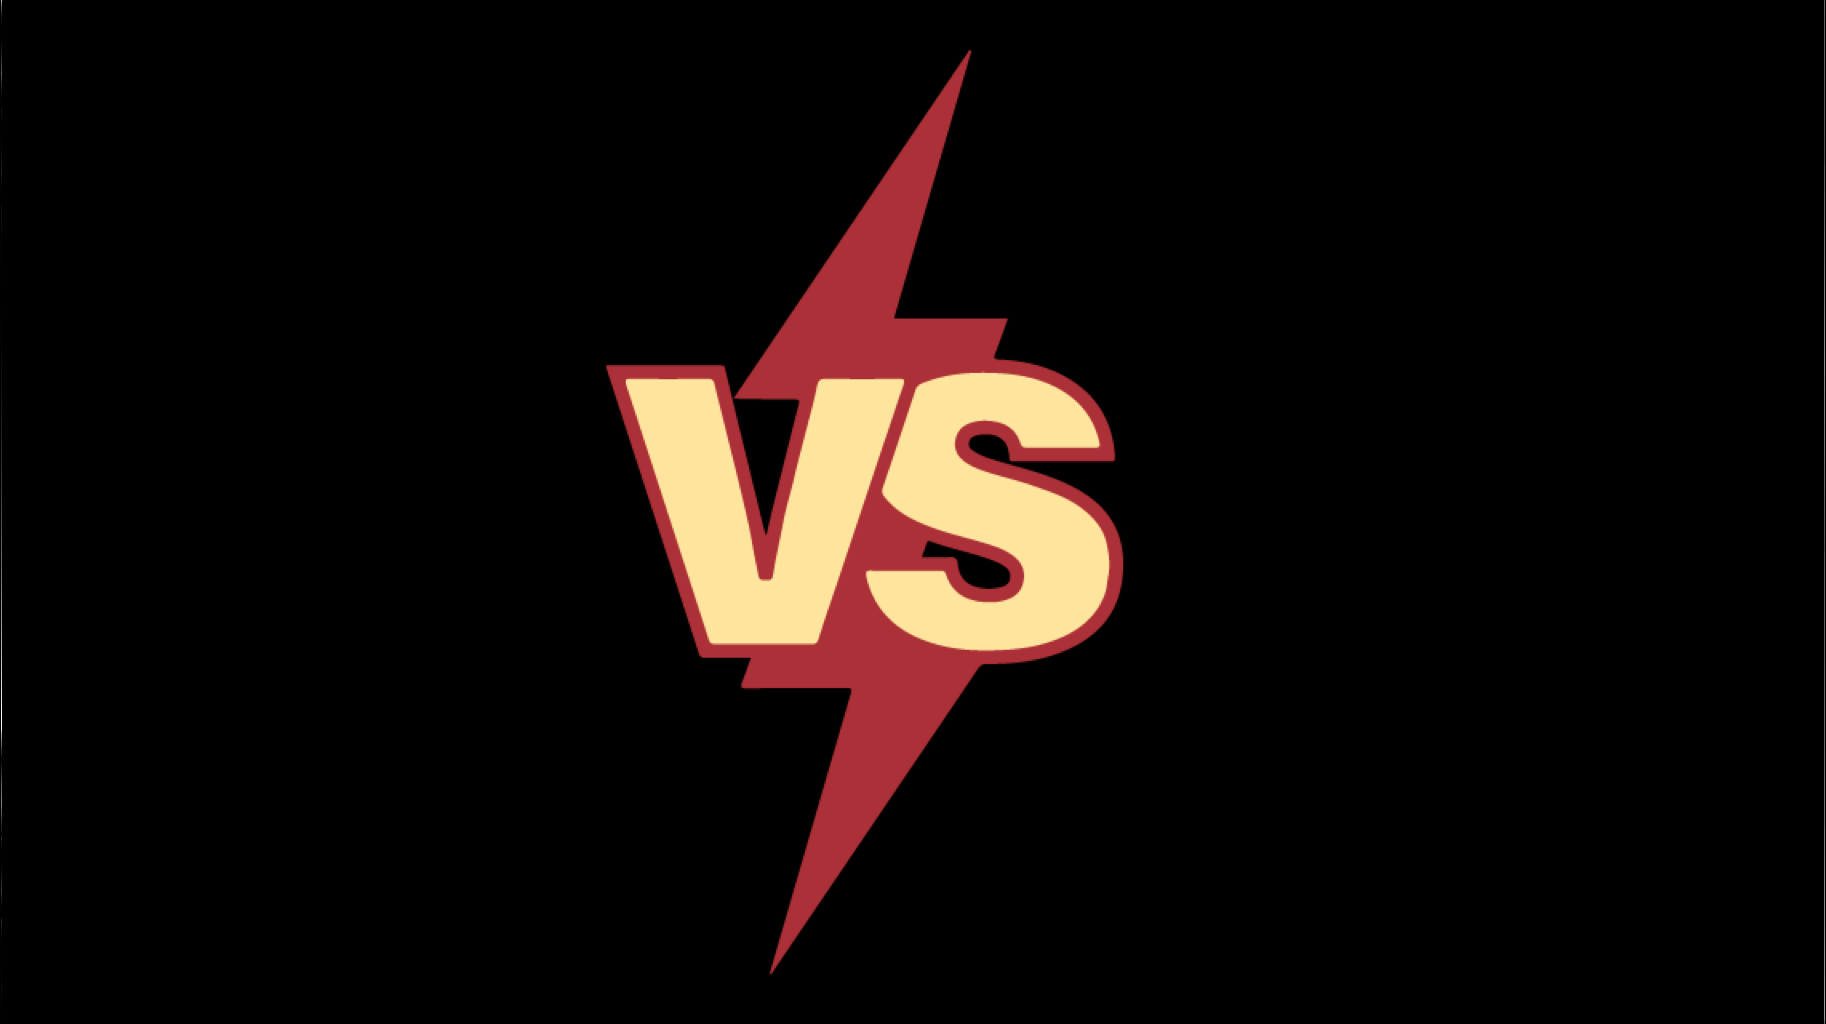
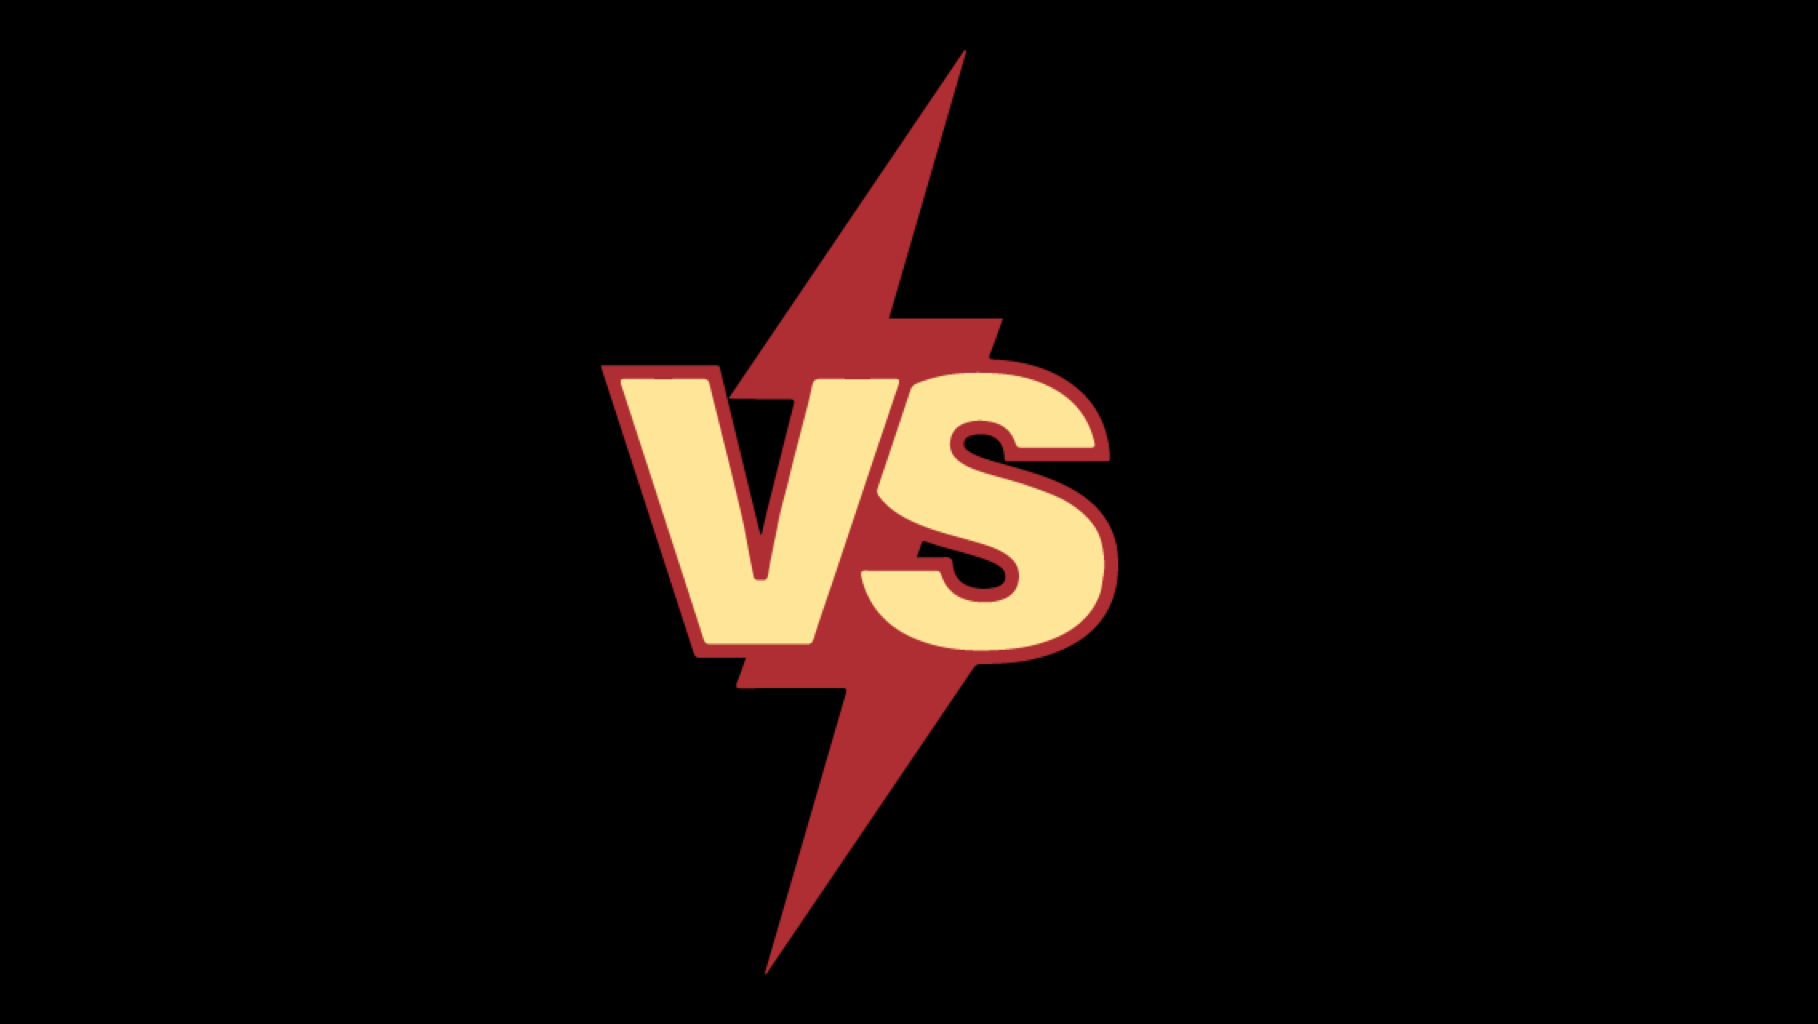
fix: size of the picture

diff --git a/src/main/java/de/uniks/stpmon/k/controller/encounter/LoadingEncounterController.java b/src/main/java/de/uniks/stpmon/k/controller/encounter/LoadingEncounterController.java
@@ -47,8 +47,8 @@ public class LoadingEncounterController extends Controller {
         scaleTransition.setOnFinished(event -> {
             ImageView vsBackground = new ImageView();
             loadImage(vsBackground, "encounter/trainerEncounter0.png");
-            vsBackground.setFitHeight(500);
-            vsBackground.setFitWidth(500);
+            vsBackground.setFitHeight(800);
+            vsBackground.setFitWidth(1200);
 
             fullBox.getChildren().add(vsBackground);
 
